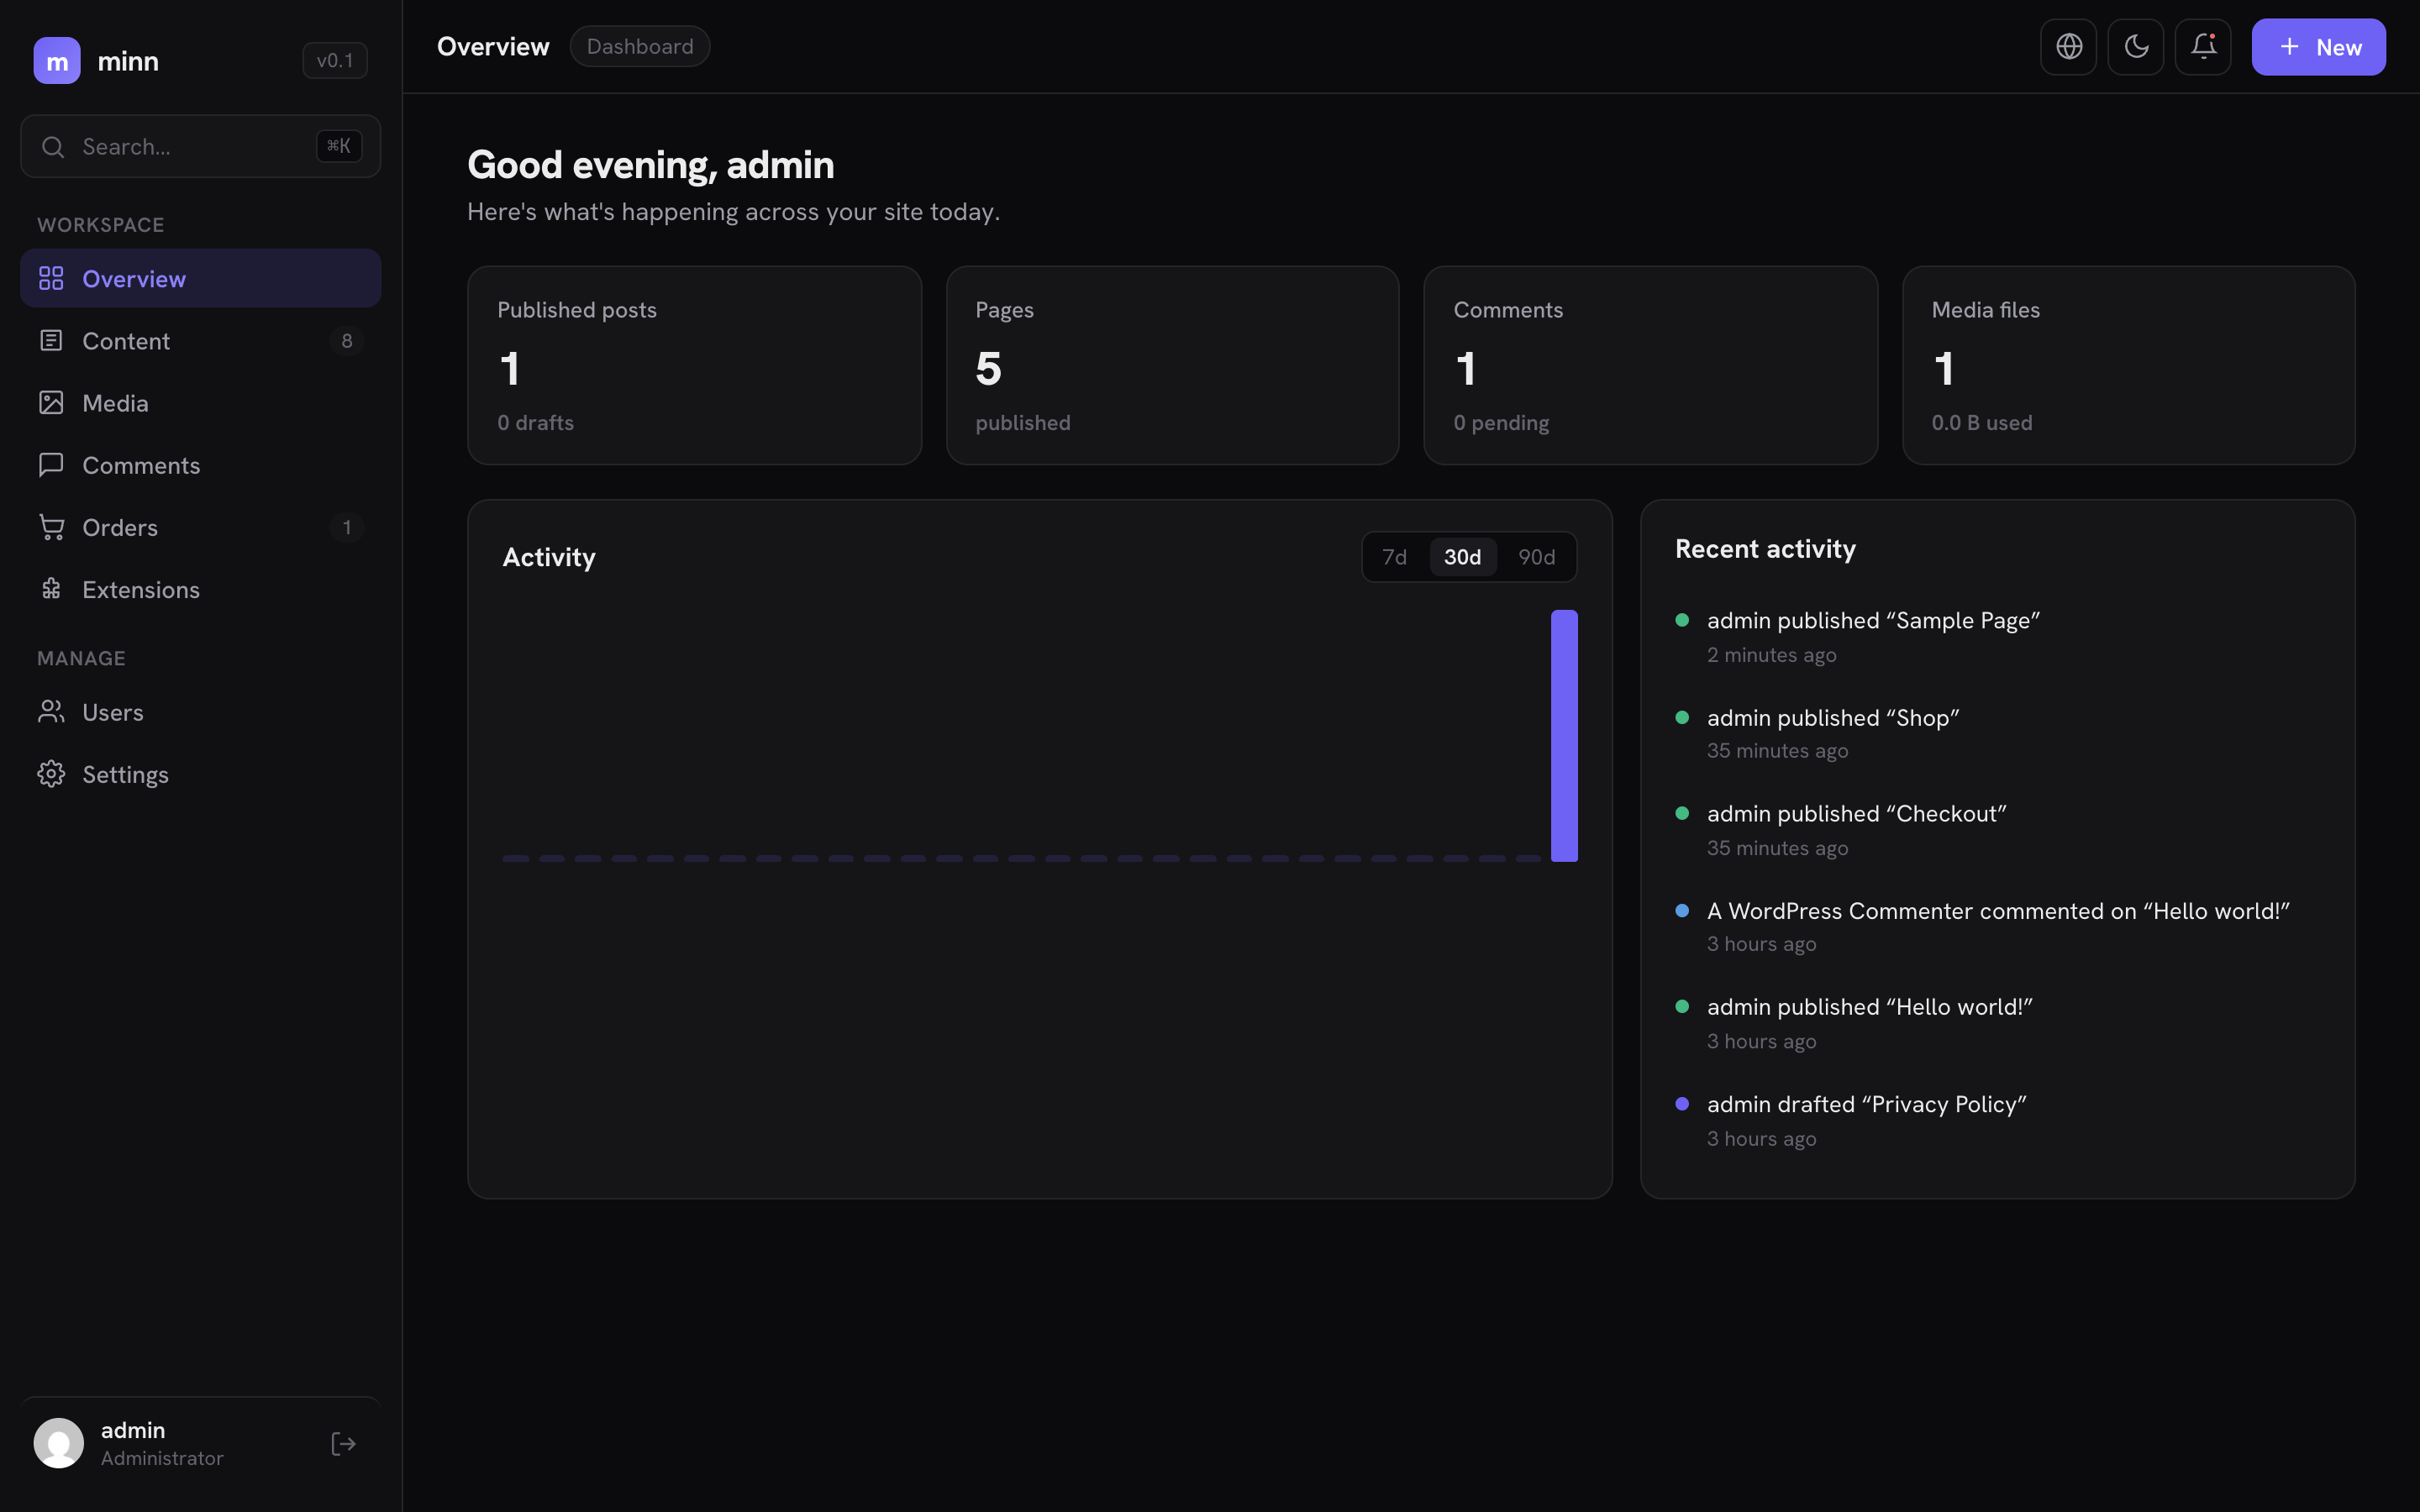
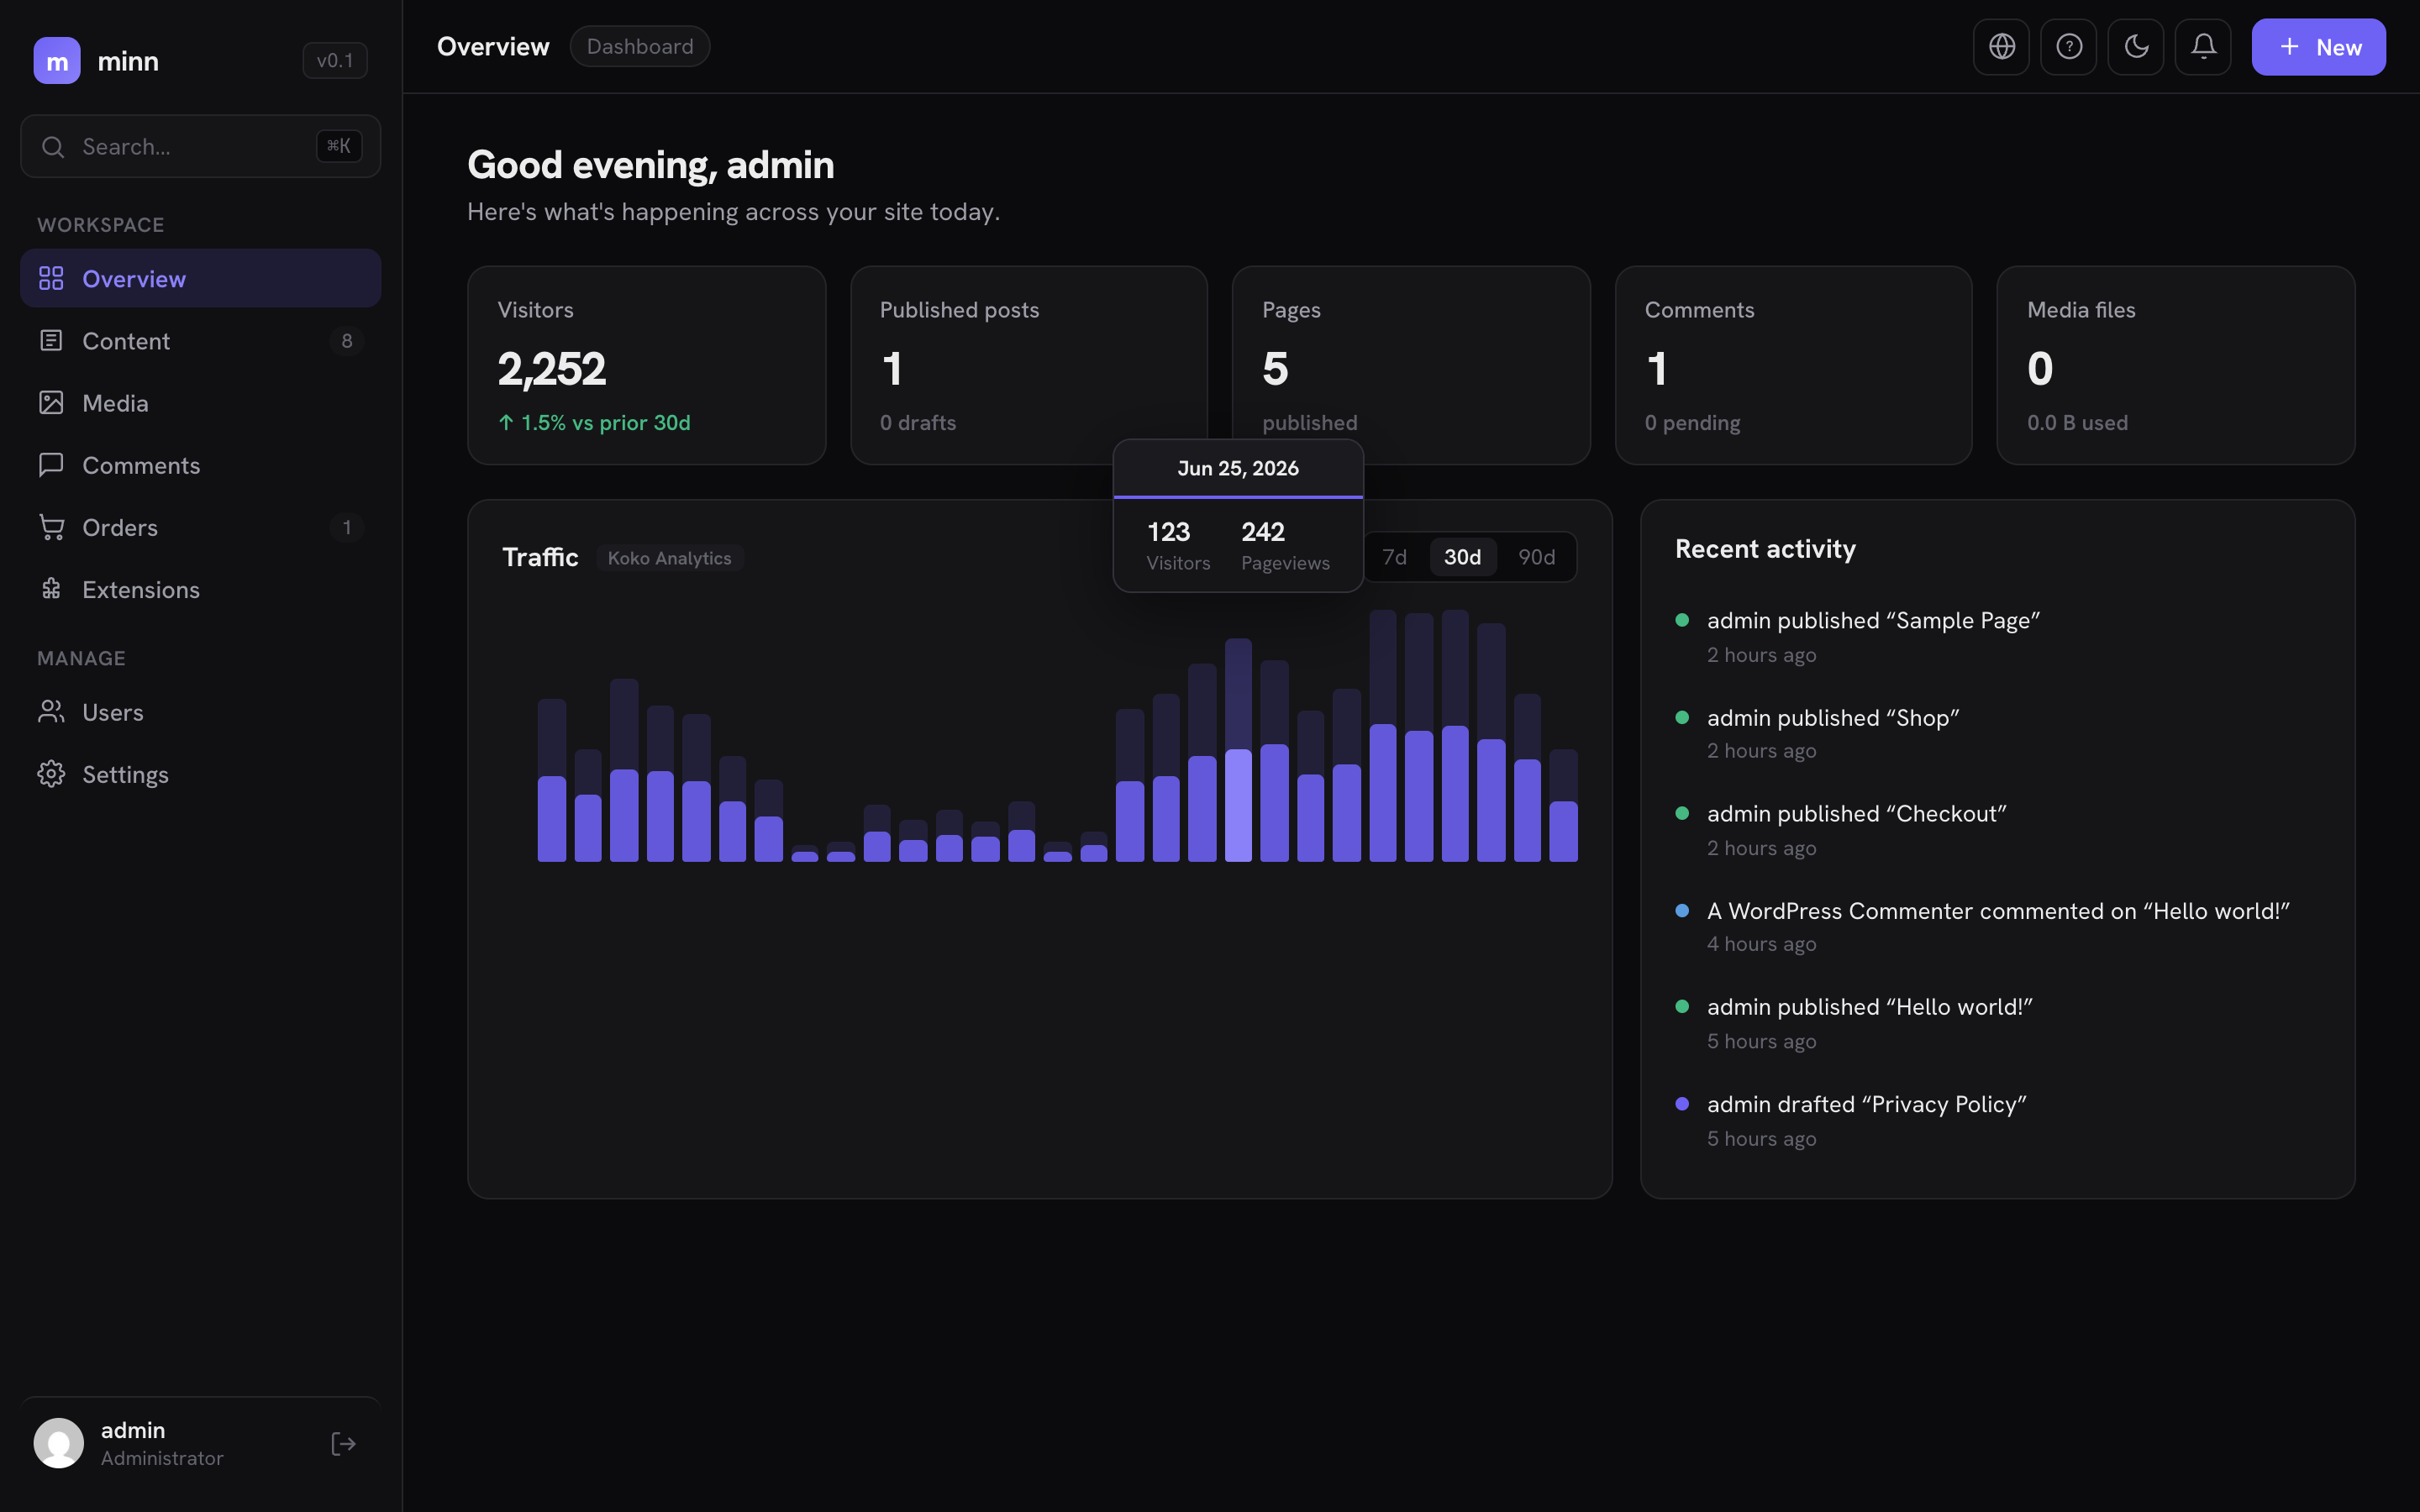
📦 NEW: WP Statistics, Burst and Independent Analytics traffic adapters
Three more providers for the minn_admin_traffic filter, each reading
the plugin's own local tables:

- WP Statistics: statistics_summary_totals when populated, with a
  fallback aggregating the raw visitor table (COUNT + SUM(hits))
- Burst Statistics: per-hit rows grouped by day — COUNT(DISTINCT uid)
  visitors, COUNT(*) pageviews
- Independent Analytics: views by viewed_at date joined with
  sessions' distinct visitor_id per day

First active provider wins (Koko answers first when several are
installed). All three verified against seeded data in each plugin's
real schema, including the WP Statistics fallback path.

Also refresh the readme screenshot to show the Traffic chart with
the hover card.

diff --git a/includes/adapters/independent-analytics.php b/includes/adapters/independent-analytics.php
@@ -1,0 +1,66 @@
+<?php
+/**
+ * Bundled adapter: Independent Analytics (traffic provider).
+ *
+ * Pageviews come from {prefix}independent_analytics_views (one row per view,
+ * `viewed_at` datetime); visitors from {prefix}independent_analytics_sessions
+ * (COUNT(DISTINCT visitor_id) per day of `created_at`).
+ *
+ * @package minn-admin
+ */
+
+defined( 'ABSPATH' ) || exit;
+
+add_filter( 'minn_admin_traffic', function ( $traffic, $days ) {
+	if ( null !== $traffic || ! defined( 'IAWP_VERSION' ) ) {
+		return $traffic;
+	}
+
+	global $wpdb;
+	$views    = $wpdb->prefix . 'independent_analytics_views';
+	$sessions = $wpdb->prefix . 'independent_analytics_sessions';
+	if ( $wpdb->get_var( $wpdb->prepare( 'SHOW TABLES LIKE %s', $views ) ) !== $views ) {
+		return $traffic;
+	}
+
+	$days       = max( 1, (int) $days );
+	$cur_start  = gmdate( 'Y-m-d', time() - ( $days - 1 ) * DAY_IN_SECONDS );
+	$prev_start = gmdate( 'Y-m-d 00:00:00', time() - ( 2 * $days - 1 ) * DAY_IN_SECONDS );
+
+	$view_rows = $wpdb->get_results( $wpdb->prepare(
+		"SELECT DATE(viewed_at) AS d, COUNT(*) AS p FROM {$views} WHERE viewed_at >= %s GROUP BY d", // phpcs:ignore
+		$prev_start
+	) );
+	$visitor_rows = $wpdb->get_results( $wpdb->prepare(
+		"SELECT DATE(created_at) AS d, COUNT(DISTINCT visitor_id) AS v FROM {$sessions} WHERE created_at >= %s GROUP BY d", // phpcs:ignore
+		$prev_start
+	) );
+	if ( ! $view_rows && ! $visitor_rows ) {
+		return $traffic;
+	}
+
+	$map  = array();
+	$prev = 0;
+	foreach ( (array) $visitor_rows as $row ) {
+		if ( $row->d >= $cur_start ) {
+			$map[ $row->d ] = array( 'visitors' => (int) $row->v, 'pageviews' => 0 );
+		} else {
+			$prev += (int) $row->v;
+		}
+	}
+	foreach ( (array) $view_rows as $row ) {
+		if ( $row->d < $cur_start ) {
+			continue;
+		}
+		if ( ! isset( $map[ $row->d ] ) ) {
+			$map[ $row->d ] = array( 'visitors' => 0, 'pageviews' => 0 );
+		}
+		$map[ $row->d ]['pageviews'] = (int) $row->p;
+	}
+
+	return array(
+		'source'        => 'Independent Analytics',
+		'days'          => $map,
+		'prev_visitors' => $prev,
+	);
+}, 10, 2 );

diff --git a/includes/adapters/wp-statistics.php b/includes/adapters/wp-statistics.php
@@ -1,0 +1,65 @@
+<?php
+/**
+ * Bundled adapter: WP Statistics (traffic provider).
+ *
+ * Prefers the {prefix}statistics_summary_totals table (date, visitors, views —
+ * populated by WP Statistics 14.10+ daily aggregation). When that has no rows
+ * for the window, falls back to aggregating the raw visitor table
+ * (one row per visitor per day; `hits` = that visitor's views).
+ *
+ * @package minn-admin
+ */
+
+defined( 'ABSPATH' ) || exit;
+
+add_filter( 'minn_admin_traffic', function ( $traffic, $days ) {
+	if ( null !== $traffic || ! defined( 'WP_STATISTICS_VERSION' ) ) {
+		return $traffic;
+	}
+
+	global $wpdb;
+	$days       = max( 1, (int) $days );
+	$cur_start  = gmdate( 'Y-m-d', time() - ( $days - 1 ) * DAY_IN_SECONDS );
+	$prev_start = gmdate( 'Y-m-d', time() - ( 2 * $days - 1 ) * DAY_IN_SECONDS );
+
+	$rows    = array();
+	$summary = $wpdb->prefix . 'statistics_summary_totals';
+	if ( $wpdb->get_var( $wpdb->prepare( 'SHOW TABLES LIKE %s', $summary ) ) === $summary ) {
+		$rows = $wpdb->get_results( $wpdb->prepare(
+			"SELECT date AS d, visitors AS v, views AS p FROM {$summary} WHERE date >= %s", // phpcs:ignore
+			$prev_start
+		) );
+	}
+	if ( ! $rows ) {
+		$visitor = $wpdb->prefix . 'statistics_visitor';
+		if ( $wpdb->get_var( $wpdb->prepare( 'SHOW TABLES LIKE %s', $visitor ) ) !== $visitor ) {
+			return $traffic;
+		}
+		$rows = $wpdb->get_results( $wpdb->prepare(
+			"SELECT last_counter AS d, COUNT(*) AS v, COALESCE(SUM(hits), 0) AS p FROM {$visitor} WHERE last_counter >= %s GROUP BY last_counter", // phpcs:ignore
+			$prev_start
+		) );
+	}
+	if ( ! $rows ) {
+		return $traffic;
+	}
+
+	$map  = array();
+	$prev = 0;
+	foreach ( $rows as $row ) {
+		if ( $row->d >= $cur_start ) {
+			$map[ $row->d ] = array(
+				'visitors'  => (int) $row->v,
+				'pageviews' => (int) $row->p,
+			);
+		} else {
+			$prev += (int) $row->v;
+		}
+	}
+
+	return array(
+		'source'        => 'WP Statistics',
+		'days'          => $map,
+		'prev_visitors' => $prev,
+	);
+}, 10, 2 );

diff --git a/includes/adapters/burst-statistics.php b/includes/adapters/burst-statistics.php
@@ -1,0 +1,55 @@
+<?php
+/**
+ * Bundled adapter: Burst Statistics (traffic provider).
+ *
+ * Burst stores one row per pageview in {prefix}burst_statistics with a unix
+ * `time` and a per-visitor `uid`, so daily totals are COUNT(*) for pageviews
+ * and COUNT(DISTINCT uid) for visitors.
+ *
+ * @package minn-admin
+ */
+
+defined( 'ABSPATH' ) || exit;
+
+add_filter( 'minn_admin_traffic', function ( $traffic, $days ) {
+	if ( null !== $traffic || ! defined( 'BURST_VERSION' ) ) {
+		return $traffic;
+	}
+
+	global $wpdb;
+	$table = $wpdb->prefix . 'burst_statistics';
+	if ( $wpdb->get_var( $wpdb->prepare( 'SHOW TABLES LIKE %s', $table ) ) !== $table ) {
+		return $traffic;
+	}
+
+	$days       = max( 1, (int) $days );
+	$cur_start  = gmdate( 'Y-m-d', time() - ( $days - 1 ) * DAY_IN_SECONDS );
+	$prev_since = time() - ( 2 * $days - 1 ) * DAY_IN_SECONDS;
+
+	$rows = $wpdb->get_results( $wpdb->prepare(
+		"SELECT DATE(FROM_UNIXTIME(time)) AS d, COUNT(DISTINCT uid) AS v, COUNT(*) AS p FROM {$table} WHERE time >= %d GROUP BY d", // phpcs:ignore
+		$prev_since
+	) );
+	if ( ! $rows ) {
+		return $traffic;
+	}
+
+	$map  = array();
+	$prev = 0;
+	foreach ( $rows as $row ) {
+		if ( $row->d >= $cur_start ) {
+			$map[ $row->d ] = array(
+				'visitors'  => (int) $row->v,
+				'pageviews' => (int) $row->p,
+			);
+		} else {
+			$prev += (int) $row->v;
+		}
+	}
+
+	return array(
+		'source'        => 'Burst Statistics',
+		'days'          => $map,
+		'prev_visitors' => $prev,
+	);
+}, 10, 2 );

diff --git a/minn-admin.php b/minn-admin.php
@@ -30,6 +30,9 @@ require_once MINN_ADMIN_DIR . 'includes/adapters/gravity-forms.php';
 require_once MINN_ADMIN_DIR . 'includes/adapters/gravity-smtp.php';
 require_once MINN_ADMIN_DIR . 'includes/adapters/acf.php';
 require_once MINN_ADMIN_DIR . 'includes/adapters/koko-analytics.php';
+require_once MINN_ADMIN_DIR . 'includes/adapters/wp-statistics.php';
+require_once MINN_ADMIN_DIR . 'includes/adapters/burst-statistics.php';
+require_once MINN_ADMIN_DIR . 'includes/adapters/independent-analytics.php';
 
 Minn_Admin::init();
 Minn_Admin_REST::init();

diff --git a/docs/for-plugin-authors.md b/docs/for-plugin-authors.md
@@ -111,8 +111,10 @@ add_filter( 'minn_admin_traffic', function ( $traffic, $days ) {
 
 Minn buckets the days to match the selected range (daily up to 45 days, weekly beyond), renders
 the Traffic chart with your plugin's name as the source badge, and leads the stat cards with
-Visitors and a period-over-period delta. The bundled **Koko Analytics** adapter
-(`includes/adapters/koko-analytics.php`) is the reference implementation.
+Visitors and a period-over-period delta. Bundled adapters cover **Koko Analytics** (the
+reference implementation), **WP Statistics**, **Burst Statistics** and **Independent
+Analytics** — the first active provider answers, so a plugin registering its own adapter
+should return early when `$traffic` is already non-null.
 
 ## No REST API? Ship a shim
 

diff --git a/changelog.md b/changelog.md
@@ -12,7 +12,7 @@
 * **Featured images:** A Featured image card in the editor sidebar with a thumbnail preview, set/replace via the media picker, and remove. Saves through the normal post save and autosave.
 * **Tables, verse and citations in the editor:** Tables are now editable inline (insert a 2×2 via the `/` menu, edit cells directly; `hasFixedLayout` round-trips), verse and preformatted blocks keep their block type on save instead of becoming code blocks, and quote citations (`<cite>`) are preserved.
 * **Theme management:** Extensions gains a Themes tab with screenshots, active/update badges, activate (with confirmation), per-theme update, and delete for inactive themes.
-* **Traffic on the Overview:** A new `minn_admin_traffic` filter lets analytics plugins power the Overview chart. When a provider is active, the Activity chart becomes a real Traffic chart (visitors per day/week with a source badge) and a Visitors stat card with a period-over-period delta leads the dashboard. Ships with a **Koko Analytics** adapter reading its local stats table; sites without an analytics plugin keep the Activity chart. Traffic bars stack pageviews behind visitors, and hovering any bar shows a Koko-style card with the date, visitors and pageviews (or event count on the Activity chart).
+* **Traffic on the Overview:** A new `minn_admin_traffic` filter lets analytics plugins power the Overview chart. When a provider is active, the Activity chart becomes a real Traffic chart (visitors per day/week with a source badge) and a Visitors stat card with a period-over-period delta leads the dashboard. Ships with adapters for **Koko Analytics**, **WP Statistics**, **Burst Statistics** and **Independent Analytics**, each reading the plugin's local tables directly; sites without an analytics plugin keep the Activity chart. Traffic bars stack pageviews behind visitors, and hovering any bar shows a Koko-style card with the date, visitors and pageviews (or event count on the Activity chart).
 * **About Minn:** A help icon in the topbar (and ⌘K entry) opens the philosophy page — what Minn is for, the AI-agent configuration model, and the no-lock-in guarantees — with links to the docs.
 
 ### Fixed